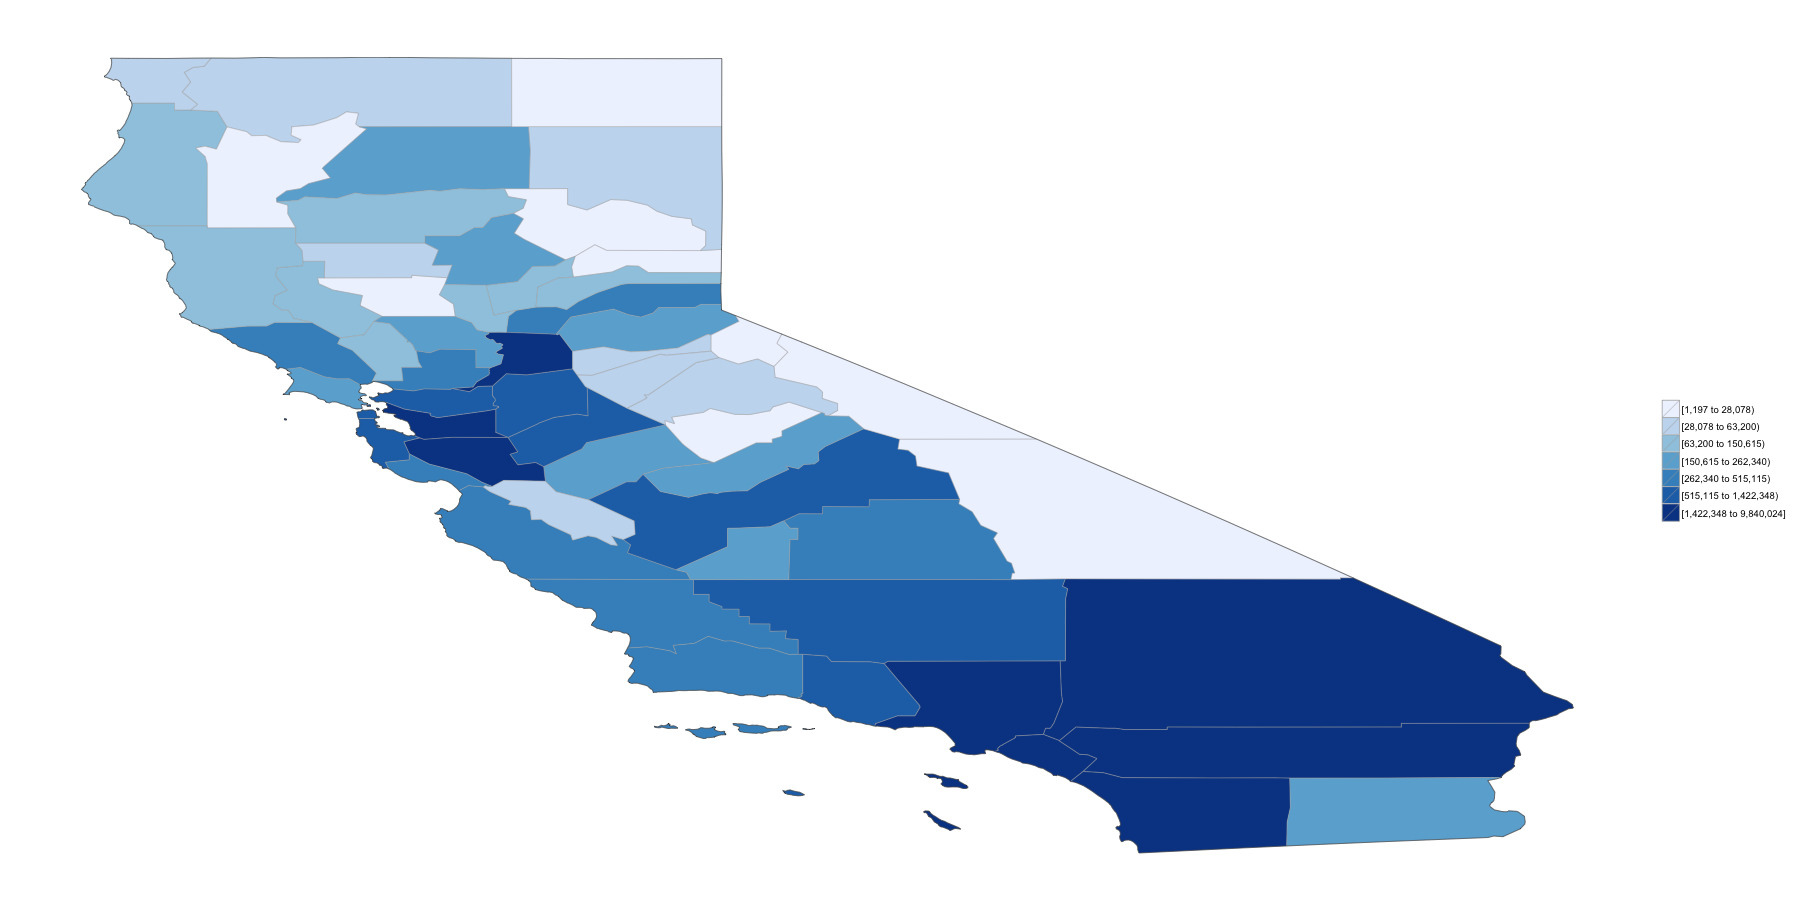
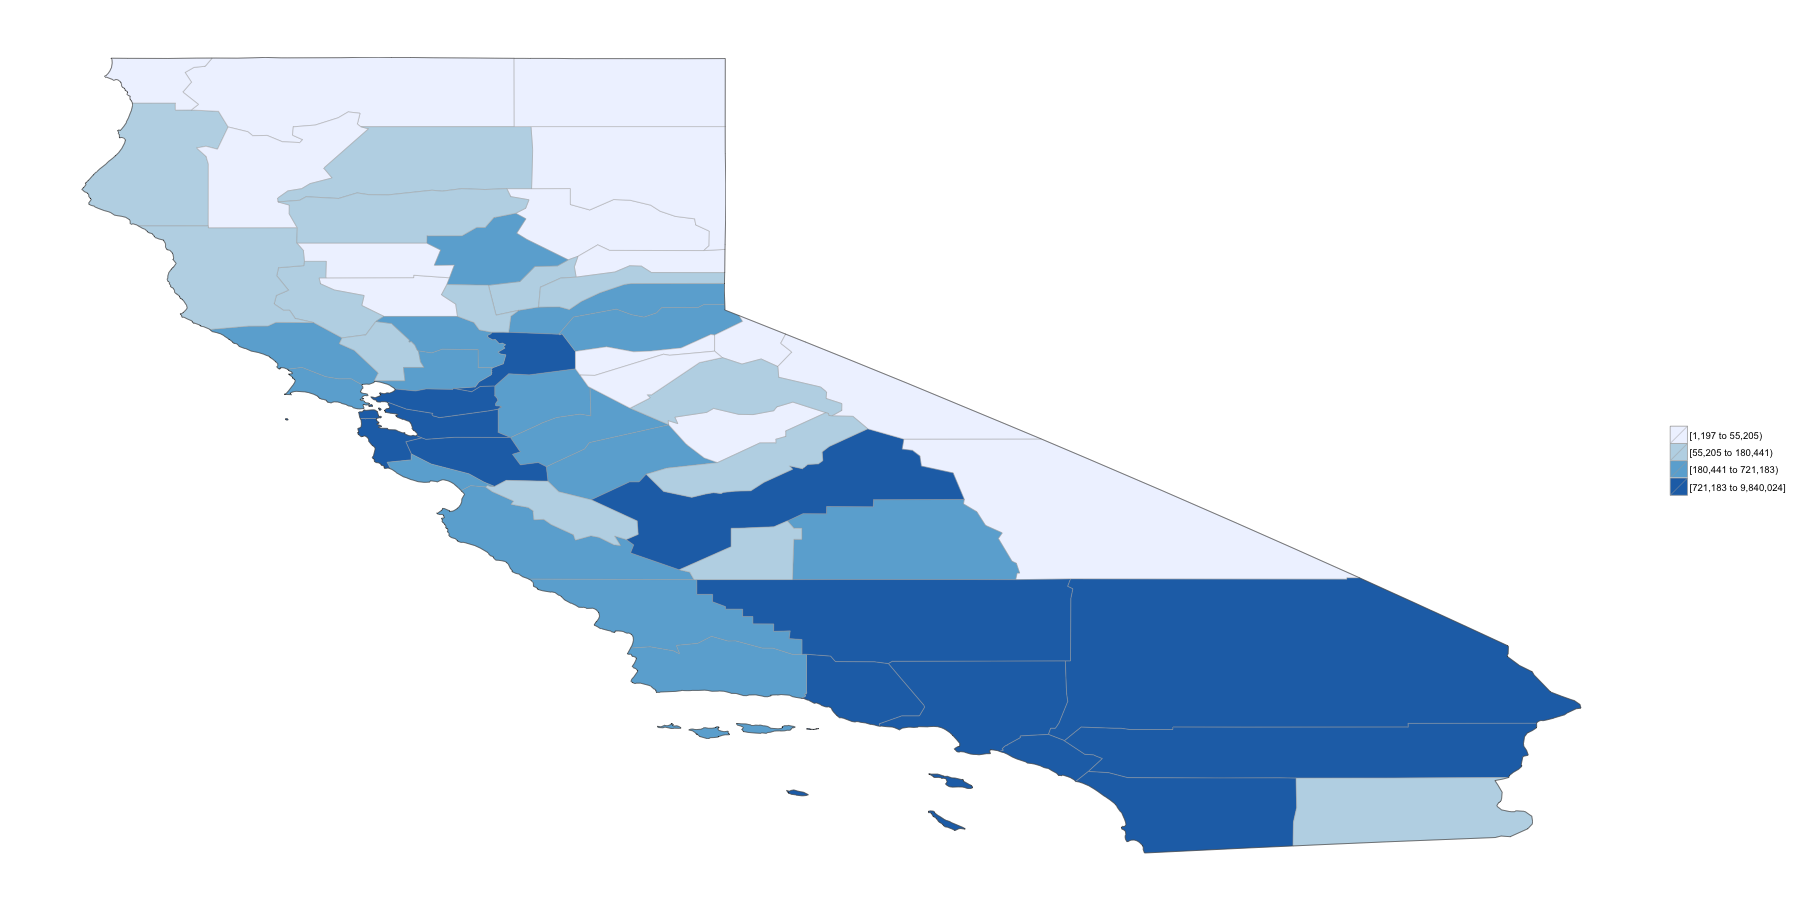
update slides etc.

diff --git a/slides.md b/slides.md
@@ -62,7 +62,7 @@ head(df_pop_state)
 
 **Exercise:** What is the population of your home state? Tell your neighbor.
 
-Answer
+My Answer
 ======================================================
 
 
@@ -85,6 +85,8 @@ boxplot(df_pop_state$value)
 ```
 
 ![plot of chunk unnamed-chunk-3](slides-figure/unnamed-chunk-3-1.png) 
+
+**Exercise:** Draw one interpretation from this plot
 
 Choropleth Map 
 ========================================================
@@ -139,9 +141,7 @@ colnames(df_state_demographics)
 [7] "per_capita_income" "median_rent"       "median_age"       
 ```
 
-**Exercise:** Tell your neighbor one statistic about your home state.
-**Exercise:** Make a boxplot of one statistic above.<br/>
-**Exercise:** Make a choropleth map of one statistic above. 
+**Exercise:** Make a choropleth map of one statistic above. Share it with your neighbor.
 
 My answer  
 ========================================================
@@ -160,8 +160,8 @@ Part 2
 
 # Counties
 
+County Population
 ========================================================
-title: false
 
 
 ```r
@@ -246,7 +246,7 @@ Zoom
 
 
 ```r
-county_choropleth(df_pop_county, state_zoom="california")
+county_choropleth(df_pop_county, state_zoom="california", num_colors=4)
 ```
 
 ![plot of chunk unnamed-chunk-14](slides-figure/unnamed-chunk-14-1.png) 
@@ -375,9 +375,7 @@ colnames(df_zip_demographics)
 
 **Exercise:** Make a map of some demographic of the ZIPs in your home state. Share it with your neighbor.
 
-**Exercise:** Make a map of some demographic of the ZIPs in your home county. Share it with your neighbor.
-
-My Answer - Part 1
+My Answer
 ========================================================
 
 
@@ -391,7 +389,12 @@ zip_choropleth(df_zip_demographics, state_zoom="new york")
 
 **Exercise:** Draw one inference from this map
 
-My Answer - Part 2
+Exercise
+========================================================
+
+**Exercise:** Make a map of some demographic of the ZIPs in your home county. Share it with your neighbor.
+
+My Answer
 ========================================================
 
 
